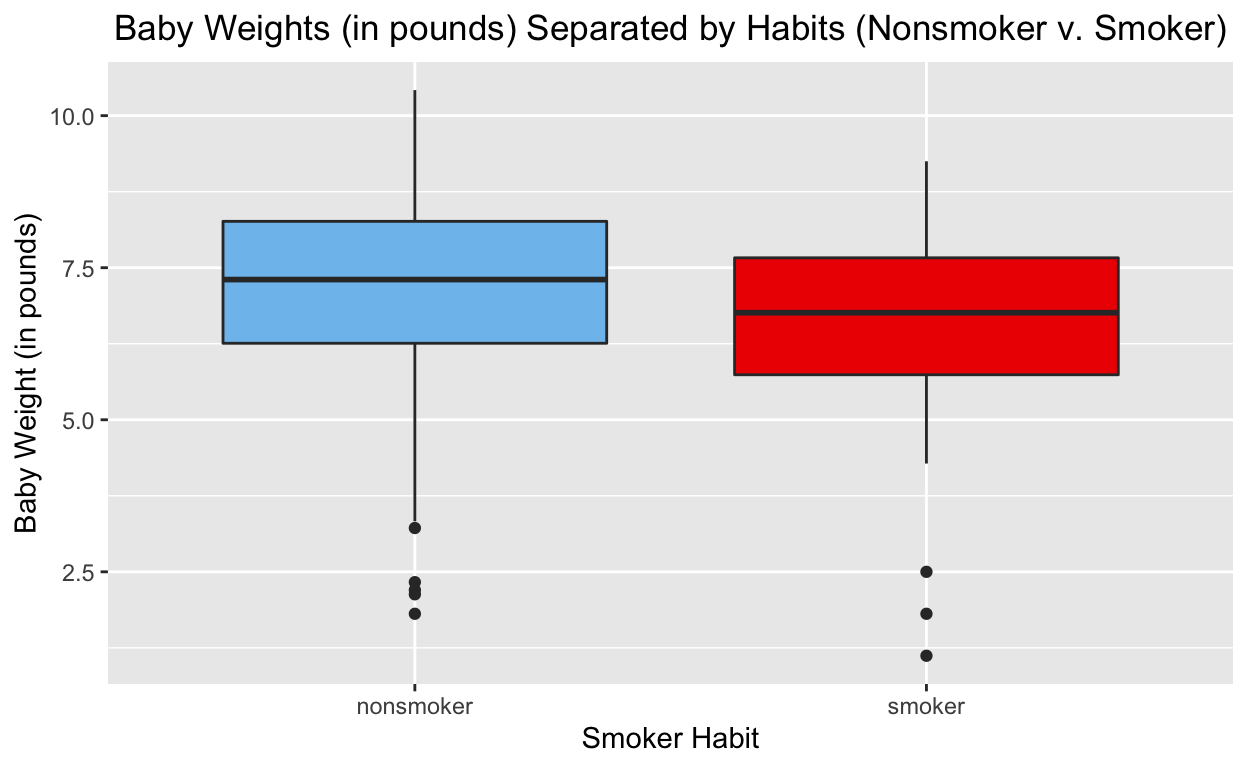
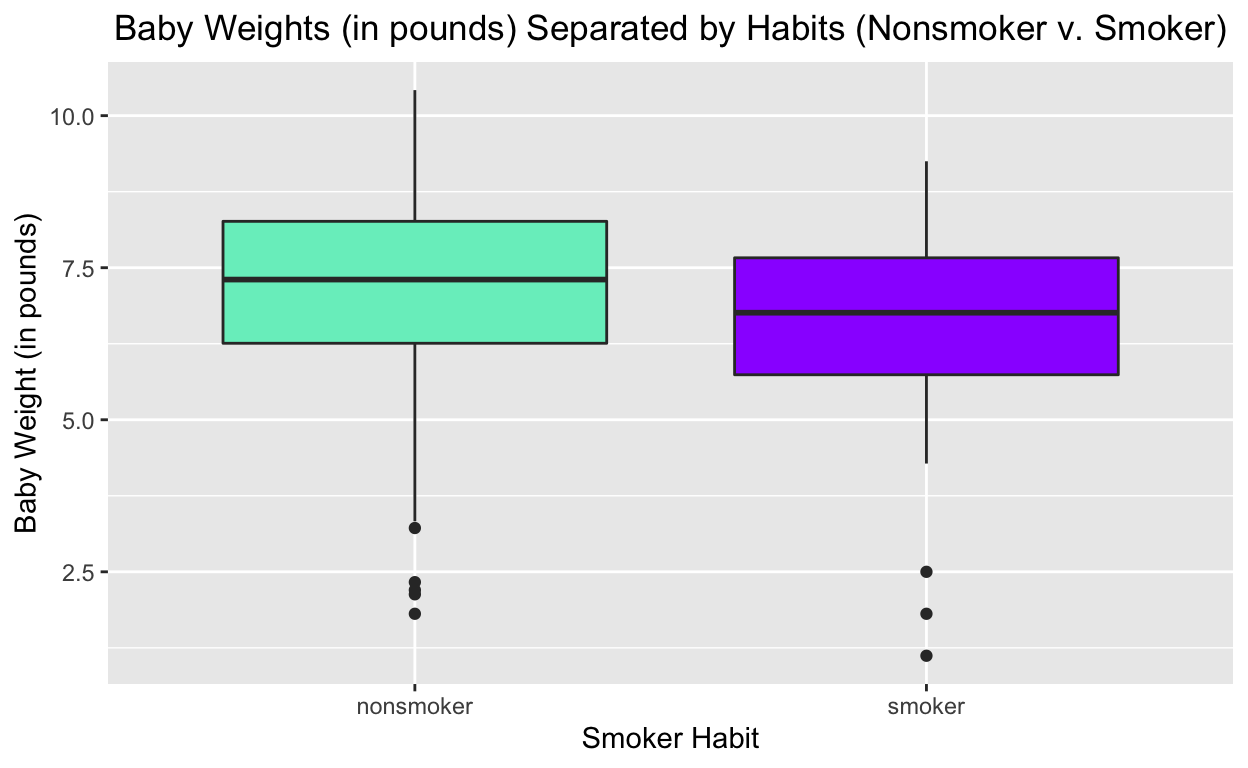
webstie update w matching colors?

Changed region(s): [[0.1562, 0.2812, 0.5, 0.4688], [0.5625, 0.3125, 0.9062, 0.5]]

diff --git a/index.html b/index.html
@@ -1583,7 +1583,7 @@ code span.wa { color: #5e5e5e; font-style: italic; } /* Warning */
 <span><span class='fu'><a href='https://dplyr.tidyverse.org/reference/summarise.html'>summarise</a></span><span class='op'>(</span>preemie_mean<span class='op'>=</span> <span class='fu'><a href='https://rdrr.io/r/base/mean.html'>mean</a></span><span class='op'>(</span><span class='va'>ifpreemie</span><span class='op'>)</span><span class='op'>)</span><span class='op'>|&gt;</span></span>
 <span>  <span class='fu'><a href='https://ggplot2.tidyverse.org/reference/ggplot.html'>ggplot</a></span><span class='op'>(</span>mapping <span class='op'>=</span> <span class='fu'><a href='https://ggplot2.tidyverse.org/reference/aes.html'>aes</a></span><span class='op'>(</span>x<span class='op'>=</span> <span class='va'>habit</span>,</span>
 <span>                        y<span class='op'>=</span><span class='va'>preemie_mean</span><span class='op'>)</span><span class='op'>)</span><span class='op'>+</span></span>
-<span>  <span class='fu'><a href='https://ggplot2.tidyverse.org/reference/geom_bar.html'>geom_col</a></span><span class='op'>(</span>fill<span class='op'>=</span><span class='fu'><a href='https://rdrr.io/r/base/c.html'>c</a></span><span class='op'>(</span><span class='st'>"skyblue2"</span>,<span class='st'>"red2"</span><span class='op'>)</span><span class='op'>)</span><span class='op'>+</span></span>
+<span>  <span class='fu'><a href='https://ggplot2.tidyverse.org/reference/geom_bar.html'>geom_col</a></span><span class='op'>(</span>fill<span class='op'>=</span><span class='fu'><a href='https://rdrr.io/r/base/c.html'>c</a></span><span class='op'>(</span><span class='st'>"aquamarine2"</span>,<span class='st'>"purple1"</span><span class='op'>)</span><span class='op'>)</span><span class='op'>+</span></span>
 <span>  <span class='fu'><a href='https://ggplot2.tidyverse.org/reference/labs.html'>labs</a></span><span class='op'>(</span>title<span class='op'>=</span><span class='st'>"Average Proportion of Preemies by US Mothers' Smoking Habits (2014)"</span>,</span>
 <span>         x<span class='op'>=</span> <span class='st'>"Smoking Habits"</span>, </span>
 <span>       y<span class='op'>=</span> <span class='st'>"Proportion of Preemies"</span><span class='op'>)</span> <span class='op'>+</span></span>
@@ -1642,7 +1642,7 @@ Explanatory: habit_binary (numeric)
 <span>  <span class='fu'><a href='https://infer.tidymodels.org/reference/calculate.html'>calculate</a></span><span class='op'>(</span>stat<span class='op'>=</span> <span class='st'>"correlation"</span><span class='op'>)</span></span>
 <span></span>
 <span><span class='fu'><a href='https://infer.tidymodels.org/reference/visualize.html'>visualise</a></span><span class='op'>(</span><span class='va'>null_dist</span><span class='op'>)</span><span class='op'>+</span></span>
-<span>  <span class='fu'><a href='https://ggplot2.tidyverse.org/reference/geom_abline.html'>geom_vline</a></span><span class='op'>(</span>xintercept<span class='op'>=</span><span class='va'>corr1</span><span class='op'>$</span><span class='va'>stat</span>, color<span class='op'>=</span><span class='st'>"darkred"</span>, size<span class='op'>=</span><span class='fl'>1.5</span><span class='op'>)</span><span class='op'>+</span></span>
+<span>  <span class='fu'><a href='https://ggplot2.tidyverse.org/reference/geom_abline.html'>geom_vline</a></span><span class='op'>(</span>xintercept<span class='op'>=</span><span class='va'>corr1</span><span class='op'>$</span><span class='va'>stat</span>, color<span class='op'>=</span><span class='st'>"maroon1"</span>, size<span class='op'>=</span><span class='fl'>1.5</span><span class='op'>)</span><span class='op'>+</span></span>
 <span>  <span class='fu'><a href='https://ggplot2.tidyverse.org/reference/theme.html'>theme</a></span><span class='op'>(</span>plot.title<span class='op'>=</span><span class='fu'><a href='https://ggplot2.tidyverse.org/reference/element.html'>element_text</a></span><span class='op'>(</span>hjust<span class='op'>=</span><span class='fl'>0.5</span><span class='op'>)</span><span class='op'>)</span></span></code></pre>
 </div>
 <p><img src="index_files/figure-html5/unnamed-chunk-6-1.png" width="624" /></p>
@@ -1656,7 +1656,7 @@ Explanatory: habit_binary (numeric)
 <pre><code># A tibble: 1 × 1
   p_value
     &lt;dbl&gt;
-1   0.001</code></pre>
+1       0</code></pre>
 </div>
 <h4 id="interpretation-of-the-p-value-for-preemie">Interpretation of the P-Value for Preemie</h4>
 <p>The P value is 0.001. This is highly statistically significant and tells us that observing a correlation statistic of 0.1058123 or more extreme is very unlikely under the null hypothesis.Therefore, there is evidence to support the alternative hypothesis that there is positive correlation between smoking habits and the likelihood of premature birth, and we can reject the null hypothesis.</p>
@@ -1675,12 +1675,12 @@ Explanatory: habit_binary (numeric)
 <pre><code># A tibble: 1 × 2
   lower_ci upper_ci
      &lt;dbl&gt;    &lt;dbl&gt;
-1   0.0306    0.181</code></pre>
+1   0.0284    0.183</code></pre>
 </div>
 <div class="layout-chunk" data-layout="l-body">
 <div class="sourceCode">
 <pre class="sourceCode r"><code class="sourceCode r"><span><span class='fu'><a href='https://infer.tidymodels.org/reference/visualize.html'>visualize</a></span><span class='op'>(</span><span class='va'>bootstrap_preemie</span><span class='op'>)</span> <span class='op'>+</span></span>
-<span><span class='fu'><a href='https://infer.tidymodels.org/reference/shade_confidence_interval.html'>shade_confidence_interval</a></span><span class='op'>(</span>endpoints <span class='op'>=</span> <span class='va'>ci_preemie</span>, color<span class='op'>=</span><span class='st'>"plum2"</span>, fill<span class='op'>=</span><span class='st'>"plum2"</span><span class='op'>)</span><span class='op'>+</span></span>
+<span><span class='fu'><a href='https://infer.tidymodels.org/reference/shade_confidence_interval.html'>shade_confidence_interval</a></span><span class='op'>(</span>endpoints <span class='op'>=</span> <span class='va'>ci_preemie</span>, color<span class='op'>=</span><span class='st'>"darkslategray3"</span>, fill<span class='op'>=</span><span class='st'>"darkslategray2"</span><span class='op'>)</span><span class='op'>+</span></span>
 <span>  <span class='fu'><a href='https://ggplot2.tidyverse.org/reference/theme.html'>theme</a></span><span class='op'>(</span>plot.title<span class='op'>=</span><span class='fu'><a href='https://ggplot2.tidyverse.org/reference/element.html'>element_text</a></span><span class='op'>(</span>hjust<span class='op'>=</span><span class='fl'>0.5</span><span class='op'>)</span><span class='op'>)</span></span></code></pre>
 </div>
 <p><img src="index_files/figure-html5/unnamed-chunk-9-1.png" width="624" /></p>
@@ -1715,7 +1715,7 @@ Coefficients:
 <span>  <span class='fu'><a href='https://dplyr.tidyverse.org/reference/summarise.html'>summarise</a></span><span class='op'>(</span>baby_weight<span class='op'>=</span> <span class='fu'><a href='https://rdrr.io/r/base/mean.html'>mean</a></span><span class='op'>(</span><span class='va'>weight</span><span class='op'>)</span><span class='op'>)</span><span class='op'>|&gt;</span></span>
 <span>  <span class='fu'><a href='https://ggplot2.tidyverse.org/reference/ggplot.html'>ggplot</a></span><span class='op'>(</span>mapping <span class='op'>=</span> <span class='fu'><a href='https://ggplot2.tidyverse.org/reference/aes.html'>aes</a></span><span class='op'>(</span>x<span class='op'>=</span> <span class='va'>habit</span>,</span>
 <span>                        y<span class='op'>=</span><span class='va'>baby_weight</span><span class='op'>)</span><span class='op'>)</span><span class='op'>+</span></span>
-<span> <span class='fu'><a href='https://ggplot2.tidyverse.org/reference/geom_boxplot.html'>geom_boxplot</a></span><span class='op'>(</span>fill <span class='op'>=</span> <span class='fu'><a href='https://rdrr.io/r/base/c.html'>c</a></span><span class='op'>(</span><span class='st'>"skyblue2"</span>,<span class='st'>"red2"</span><span class='op'>)</span><span class='op'>)</span><span class='op'>+</span></span>
+<span> <span class='fu'><a href='https://ggplot2.tidyverse.org/reference/geom_boxplot.html'>geom_boxplot</a></span><span class='op'>(</span>fill <span class='op'>=</span> <span class='fu'><a href='https://rdrr.io/r/base/c.html'>c</a></span><span class='op'>(</span><span class='st'>"aquamarine2"</span>,<span class='st'>"purple1"</span><span class='op'>)</span><span class='op'>)</span><span class='op'>+</span></span>
 <span>  <span class='fu'><a href='https://ggplot2.tidyverse.org/reference/labs.html'>labs</a></span><span class='op'>(</span>title <span class='op'>=</span> <span class='st'>"Baby Weights (in pounds) Separated by Habits (Nonsmoker v. Smoker)"</span>,</span>
 <span> x<span class='op'>=</span> <span class='st'>"Smoker Habit"</span>, </span>
 <span>y<span class='op'>=</span> <span class='st'>"Baby Weight (in pounds)"</span><span class='op'>)</span><span class='op'>+</span></span>
@@ -1768,7 +1768,7 @@ Coefficients:
 <span><span class='fu'><a href='https://dplyr.tidyverse.org/reference/summarise.html'>summarise</a></span><span class='op'>(</span>low_mean<span class='op'>=</span> <span class='fu'><a href='https://rdrr.io/r/base/mean.html'>mean</a></span><span class='op'>(</span><span class='va'>iflow</span><span class='op'>)</span><span class='op'>)</span><span class='op'>|&gt;</span></span>
 <span>  <span class='fu'><a href='https://ggplot2.tidyverse.org/reference/ggplot.html'>ggplot</a></span><span class='op'>(</span>mapping <span class='op'>=</span> <span class='fu'><a href='https://ggplot2.tidyverse.org/reference/aes.html'>aes</a></span><span class='op'>(</span>x<span class='op'>=</span> <span class='va'>habit</span>,</span>
 <span>                        y<span class='op'>=</span><span class='va'>low_mean</span><span class='op'>)</span><span class='op'>)</span><span class='op'>+</span></span>
-<span>  <span class='fu'><a href='https://ggplot2.tidyverse.org/reference/geom_bar.html'>geom_col</a></span><span class='op'>(</span>fill<span class='op'>=</span><span class='fu'><a href='https://rdrr.io/r/base/c.html'>c</a></span><span class='op'>(</span><span class='st'>"royalblue4"</span>, <span class='st'>"darkred"</span><span class='op'>)</span><span class='op'>)</span><span class='op'>+</span></span>
+<span>  <span class='fu'><a href='https://ggplot2.tidyverse.org/reference/geom_bar.html'>geom_col</a></span><span class='op'>(</span>fill<span class='op'>=</span><span class='fu'><a href='https://rdrr.io/r/base/c.html'>c</a></span><span class='op'>(</span><span class='st'>"aquamarine2"</span>,<span class='st'>"purple1"</span><span class='op'>)</span><span class='op'>)</span><span class='op'>+</span></span>
 <span>  <span class='fu'><a href='https://ggplot2.tidyverse.org/reference/labs.html'>labs</a></span><span class='op'>(</span>title<span class='op'>=</span><span class='st'>"Average Proportion of Babies Born at a Low Birth Weight by </span></span>
 <span><span class='st'>       US Mothers' Smoking Habits (2014)"</span>,</span>
 <span>         x<span class='op'>=</span> <span class='st'>"Smoking Habits"</span>, </span>
@@ -1823,7 +1823,7 @@ Explanatory: habit_binary (numeric)
 <span>  <span class='fu'><a href='https://infer.tidymodels.org/reference/calculate.html'>calculate</a></span><span class='op'>(</span>stat<span class='op'>=</span> <span class='st'>"correlation"</span><span class='op'>)</span></span>
 <span></span>
 <span><span class='fu'><a href='https://infer.tidymodels.org/reference/visualize.html'>visualise</a></span><span class='op'>(</span><span class='va'>null_dist2</span><span class='op'>)</span><span class='op'>+</span></span>
-<span>  <span class='fu'><a href='https://ggplot2.tidyverse.org/reference/geom_abline.html'>geom_vline</a></span><span class='op'>(</span>xintercept<span class='op'>=</span><span class='va'>corr2</span><span class='op'>$</span><span class='va'>stat</span>, color<span class='op'>=</span><span class='st'>"magenta4"</span>, size<span class='op'>=</span><span class='fl'>1.5</span><span class='op'>)</span><span class='op'>+</span></span>
+<span>  <span class='fu'><a href='https://ggplot2.tidyverse.org/reference/geom_abline.html'>geom_vline</a></span><span class='op'>(</span>xintercept<span class='op'>=</span><span class='va'>corr2</span><span class='op'>$</span><span class='va'>stat</span>, color<span class='op'>=</span><span class='st'>"maroon1"</span>, size<span class='op'>=</span><span class='fl'>1.5</span><span class='op'>)</span><span class='op'>+</span></span>
 <span>  <span class='fu'><a href='https://ggplot2.tidyverse.org/reference/theme.html'>theme</a></span><span class='op'>(</span>plot.title<span class='op'>=</span><span class='fu'><a href='https://ggplot2.tidyverse.org/reference/element.html'>element_text</a></span><span class='op'>(</span>hjust<span class='op'>=</span><span class='fl'>0.5</span><span class='op'>)</span><span class='op'>)</span></span></code></pre>
 </div>
 <p><img src="index_files/figure-html5/unnamed-chunk-16-1.png" width="624" /></p>
@@ -1858,12 +1858,12 @@ Explanatory: habit_binary (numeric)
 <pre><code># A tibble: 1 × 2
   lower_ci upper_ci
      &lt;dbl&gt;    &lt;dbl&gt;
-1   0.0870    0.264</code></pre>
+1   0.0889    0.262</code></pre>
 </div>
 <div class="layout-chunk" data-layout="l-body">
 <div class="sourceCode">
 <pre class="sourceCode r"><code class="sourceCode r"><span><span class='fu'><a href='https://infer.tidymodels.org/reference/visualize.html'>visualize</a></span><span class='op'>(</span><span class='va'>bootstrap_lowweight</span><span class='op'>)</span> <span class='op'>+</span></span>
-<span><span class='fu'><a href='https://infer.tidymodels.org/reference/shade_confidence_interval.html'>shade_confidence_interval</a></span><span class='op'>(</span>endpoints <span class='op'>=</span> <span class='va'>ci_lowweight</span>, fill <span class='op'>=</span><span class='st'>"cadetblue1"</span>, color <span class='op'>=</span> <span class='st'>"cadetblue1"</span><span class='op'>)</span><span class='op'>+</span></span>
+<span><span class='fu'><a href='https://infer.tidymodels.org/reference/shade_confidence_interval.html'>shade_confidence_interval</a></span><span class='op'>(</span>endpoints <span class='op'>=</span> <span class='va'>ci_lowweight</span>, color<span class='op'>=</span><span class='st'>"darkslategray3"</span>, fill<span class='op'>=</span><span class='st'>"darkslategray2"</span><span class='op'>)</span><span class='op'>+</span></span>
 <span>  <span class='fu'><a href='https://ggplot2.tidyverse.org/reference/theme.html'>theme</a></span><span class='op'>(</span>plot.title<span class='op'>=</span><span class='fu'><a href='https://ggplot2.tidyverse.org/reference/element.html'>element_text</a></span><span class='op'>(</span>hjust<span class='op'>=</span><span class='fl'>0.5</span><span class='op'>)</span><span class='op'>)</span></span></code></pre>
 </div>
 <p><img src="index_files/figure-html5/unnamed-chunk-19-1.png" width="624" /></p>
